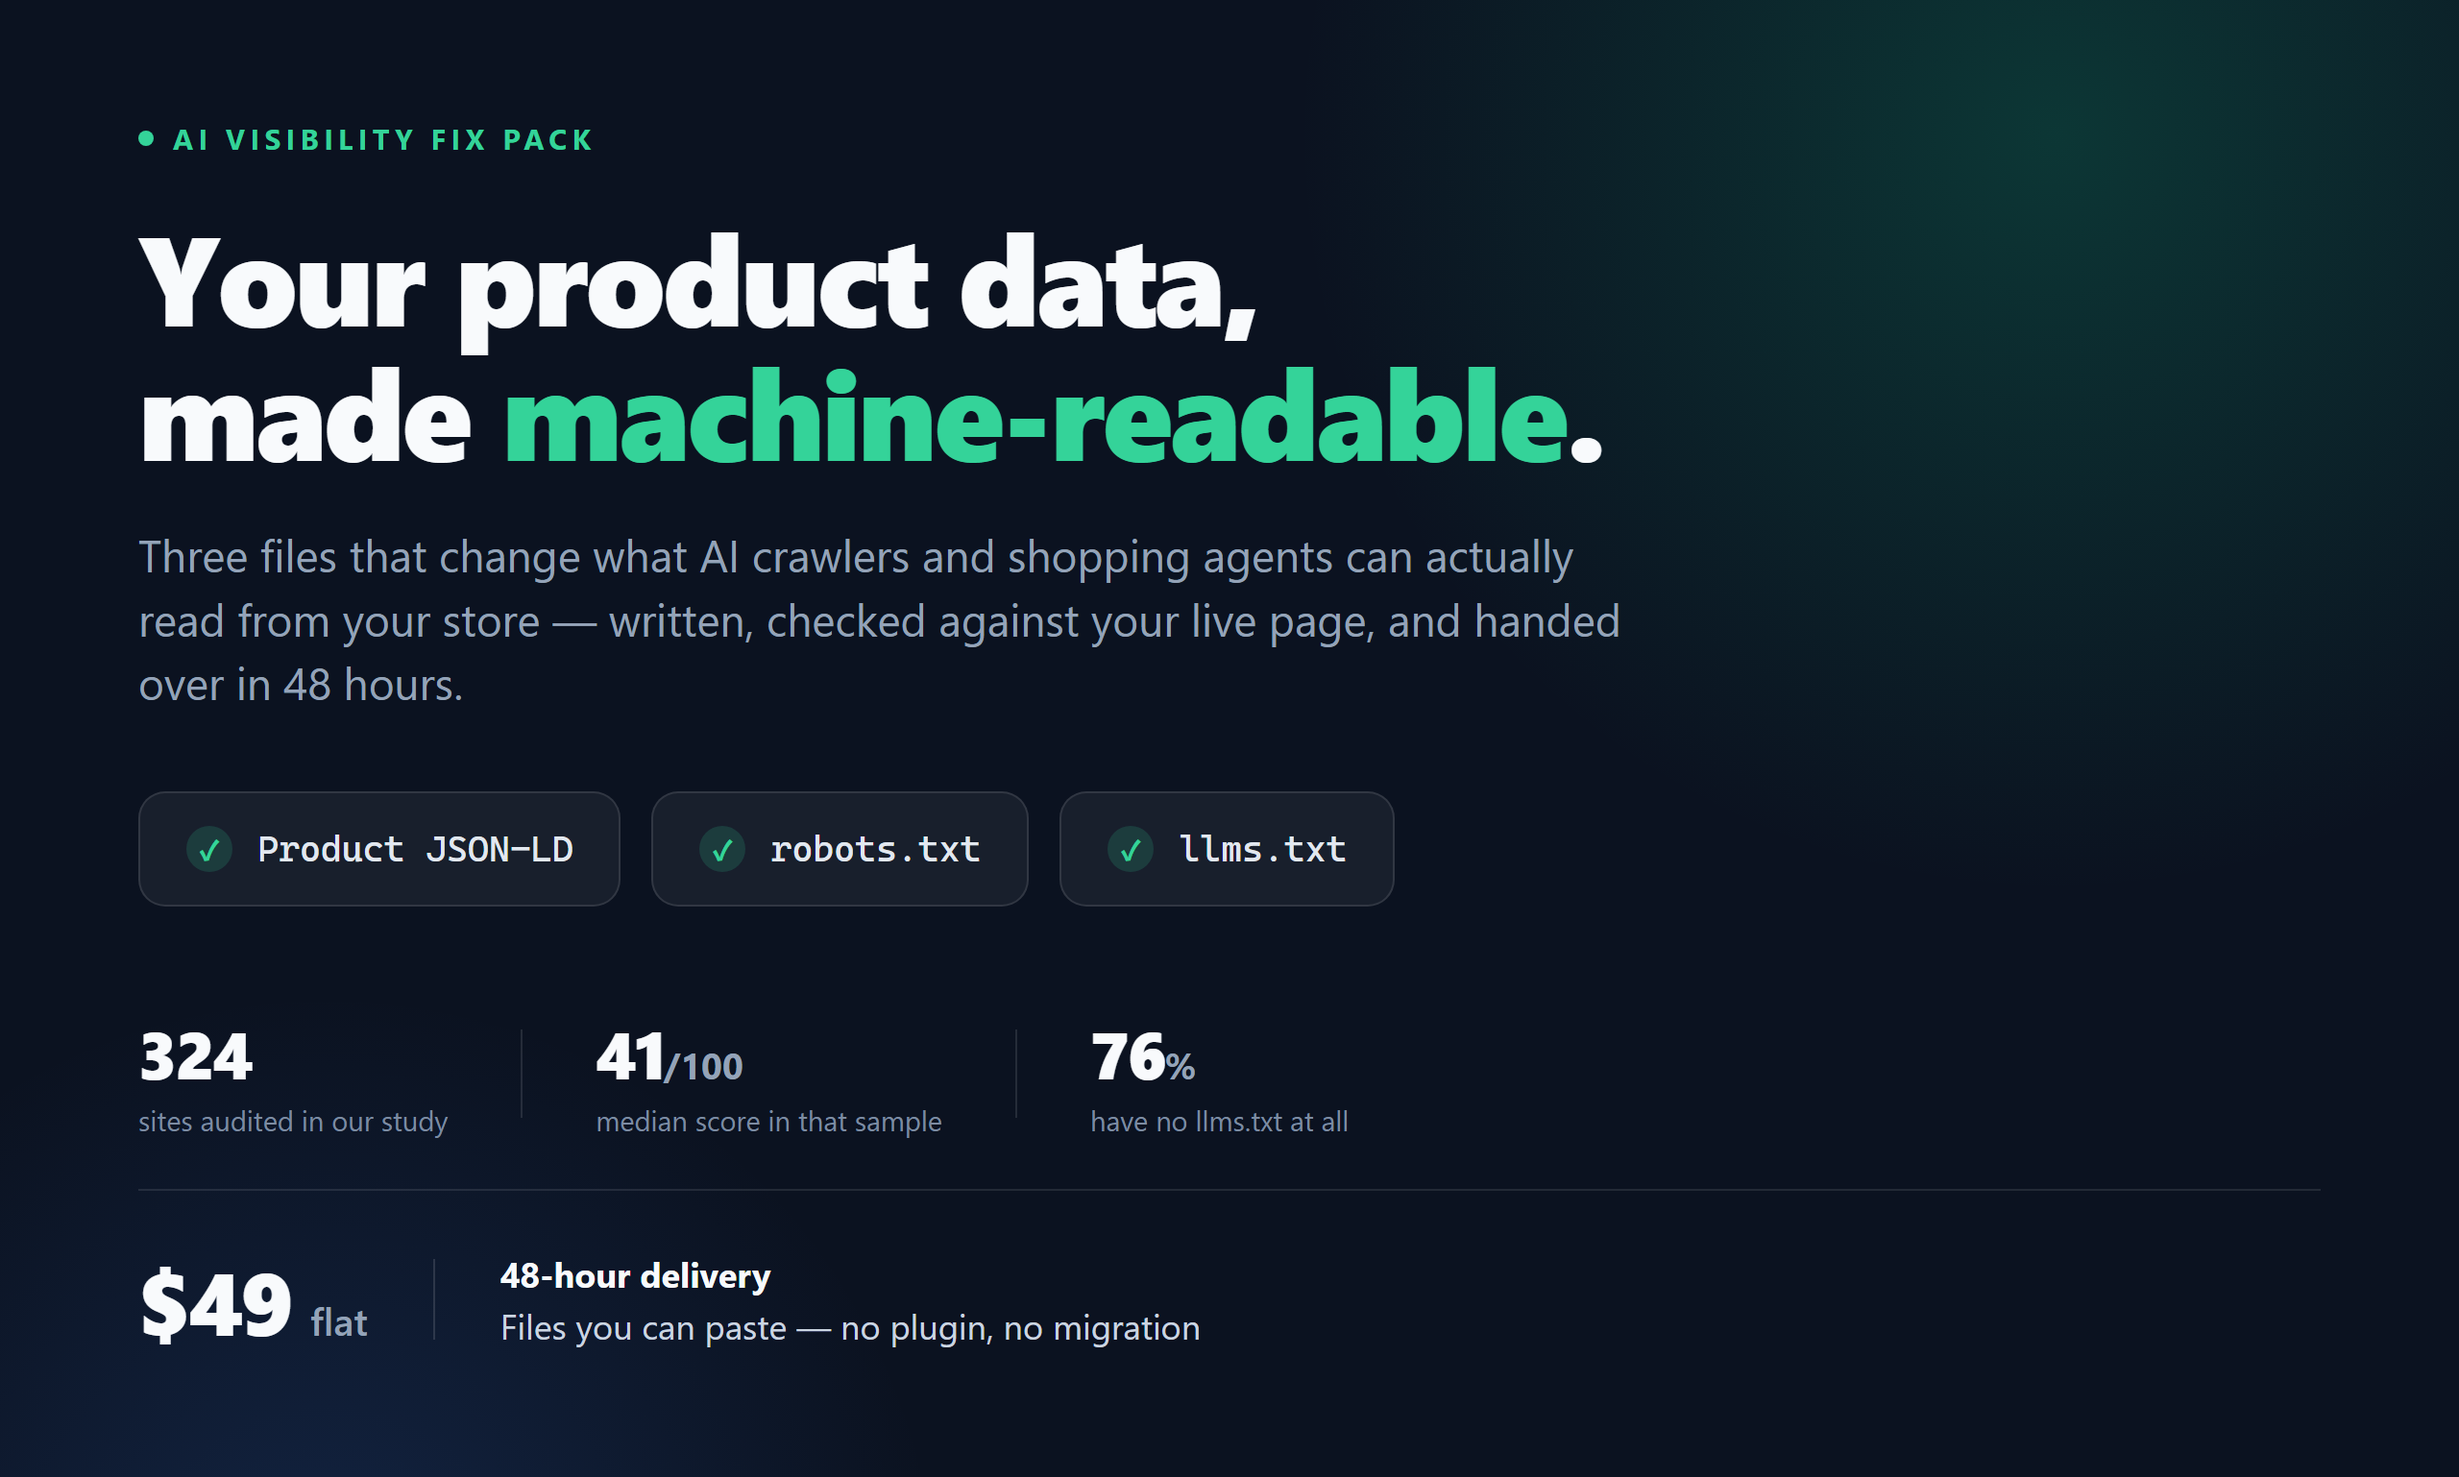
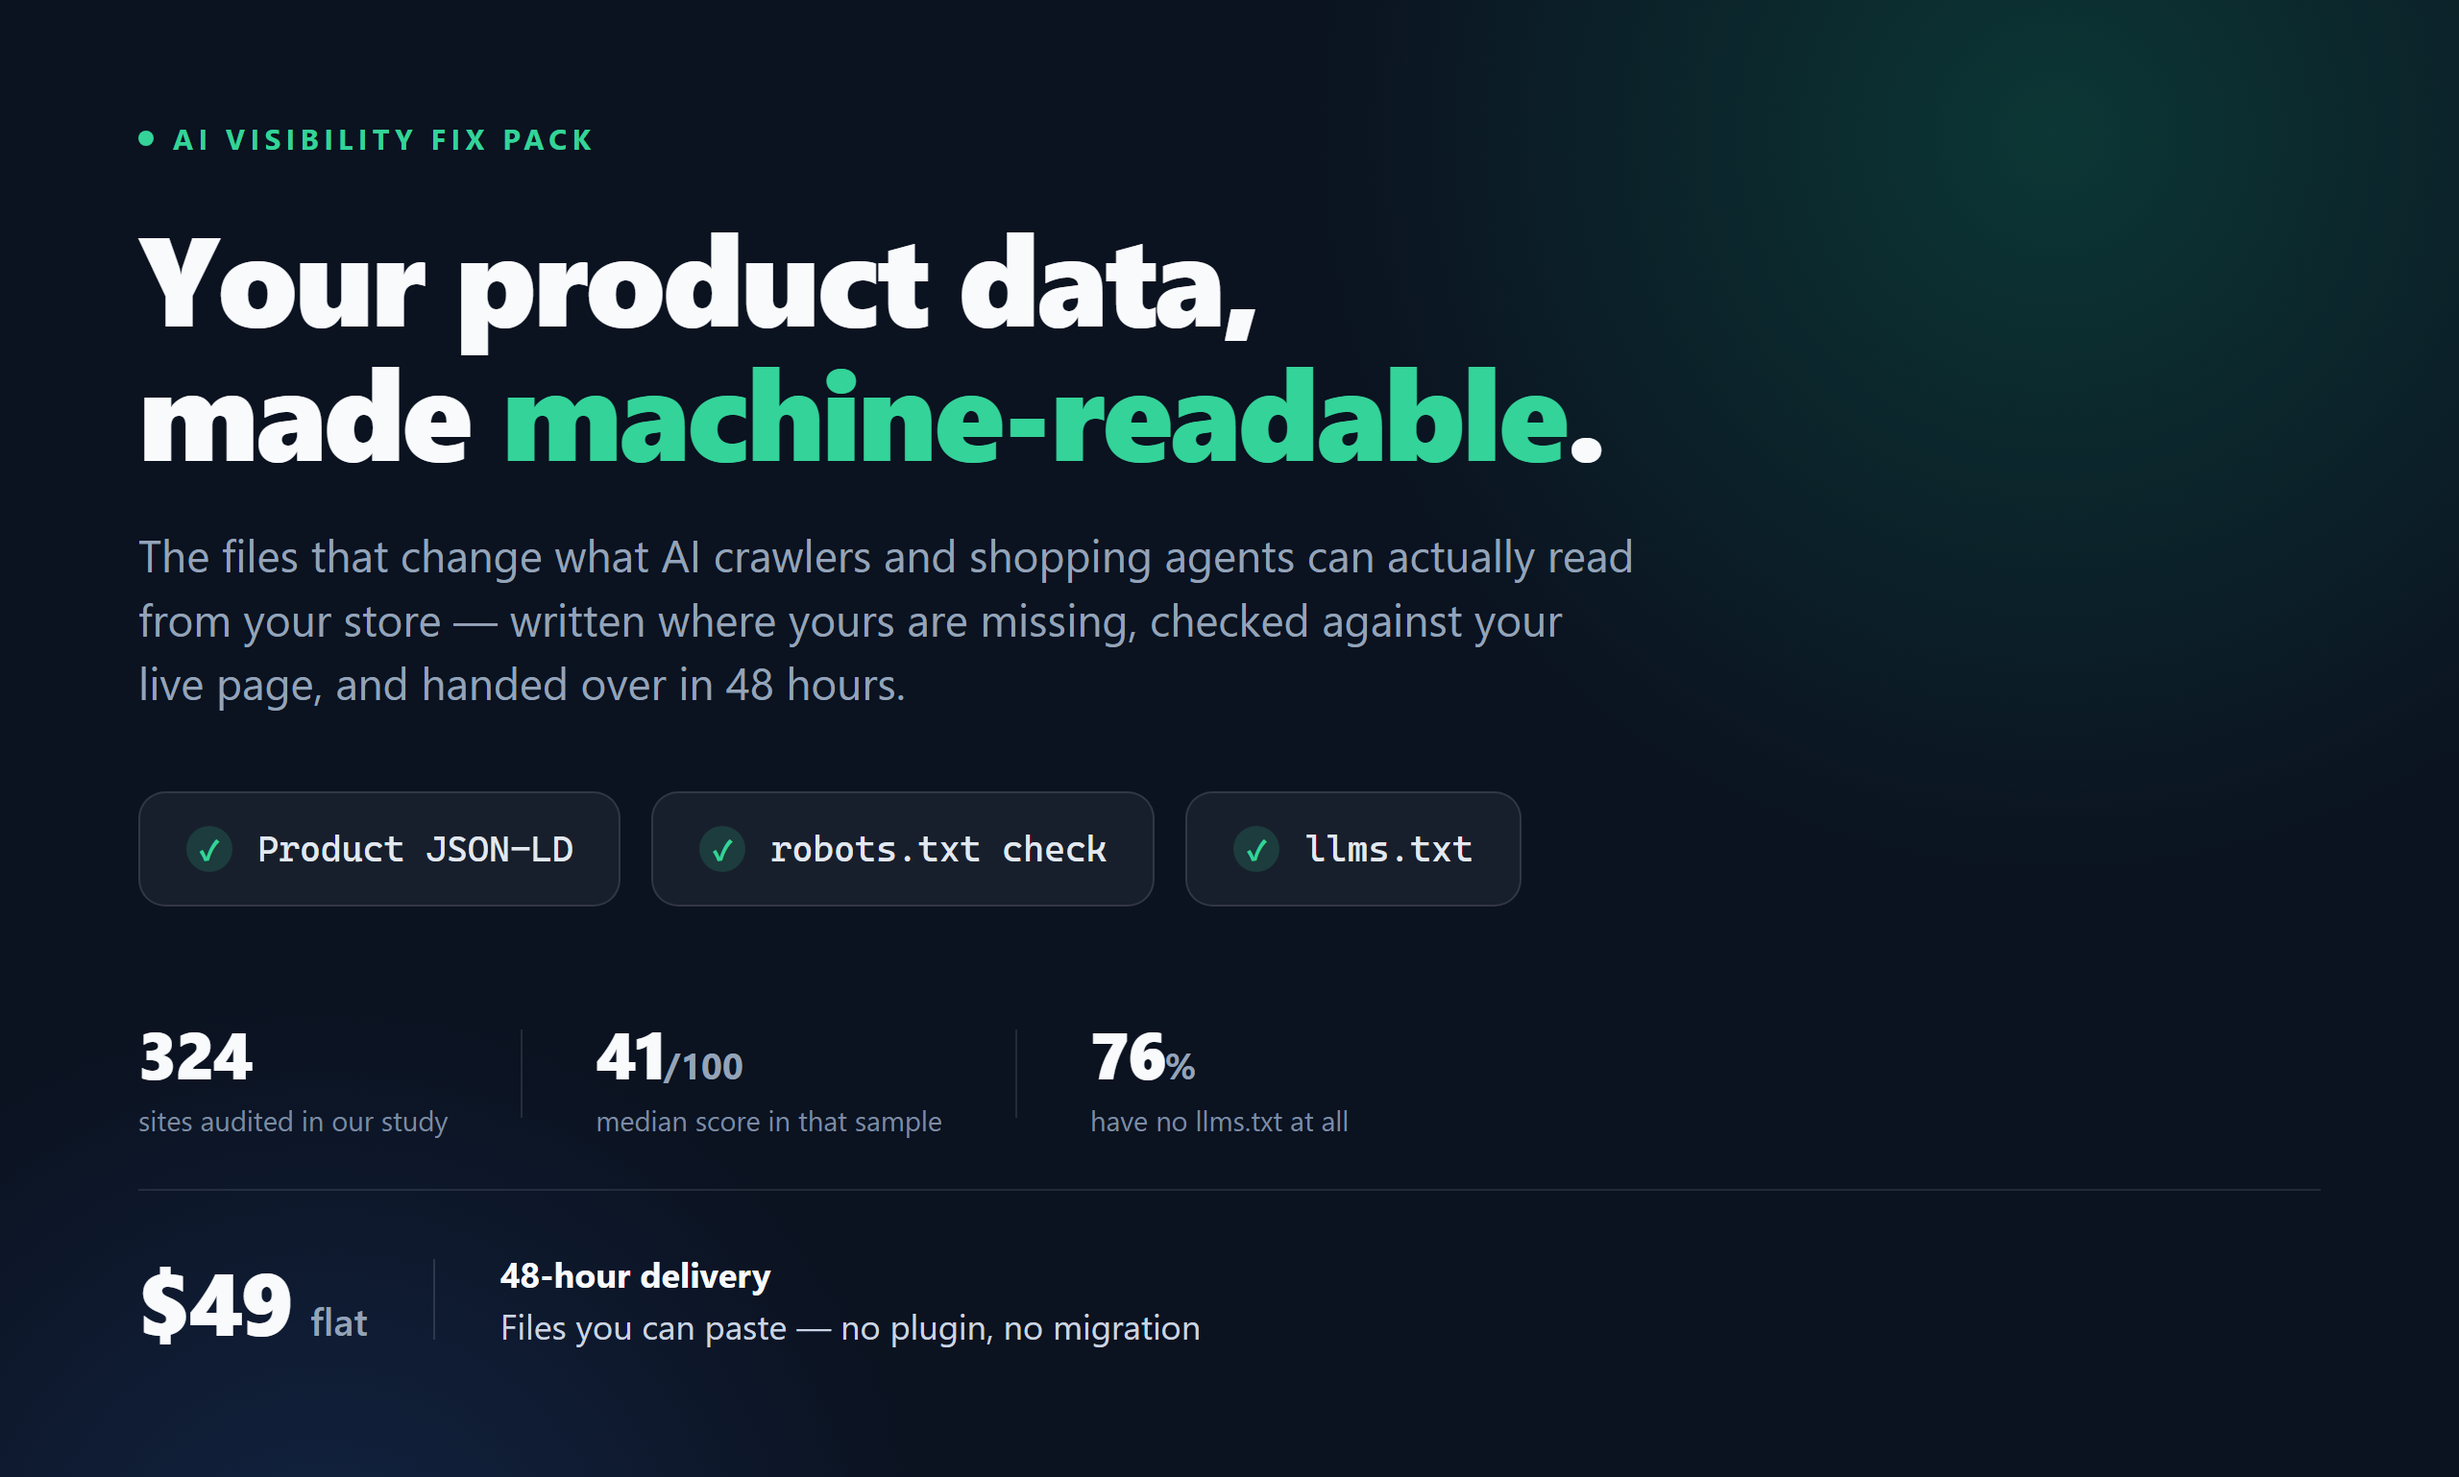
docs(gig): the copy promised three files the tool no longer writes
The pack stopped shipping a robots.txt (0dae961, 4eaeda2) and on all three
real Shopify stores we tested it ships llms.txt and nothing else — every one
already had a complete Product node and already allowed AI crawlers. The gig
copy still sold "three files", including one bullet promising "explicit
AI-crawler rules for robots.txt, merged without touching your existing rules".

- Description bullet 2 is now what the pack actually delivers: a written
  diagnosis of what your rules block on that page and the lines to delete,
  with the reason we do not rewrite the file. 1192/1200 characters.
- The long-form description and the three case studies no longer say "three
  files". The case studies are sites with no robots.txt at all, so they now
  say robots.txt needed nothing — which is true and is the stronger claim.
- Cover and deliverables images re-rendered at 2x: "Only what's missing",
  "robots.txt check" instead of a third file.

No claim in the outward copy now describes a file the tool will not produce.

Changed region(s): [[0.0625, 0.3433, 0.6562, 0.4993], [0.4062, 0.5618, 0.5938, 0.593]]

diff --git a/assets/gig/03-deliverables.html b/assets/gig/03-deliverables.html
@@ -71,7 +71,7 @@
   <div class="glow"></div>
   <div class="wrap">
     <div class="kicker">Deliverables</div>
-    <h1>Three files. <em>No plugin, no migration.</em></h1>
+    <h1>Only what's missing. <em>No plugin, no migration.</em></h1>
 
     <div class="cards">
       <div class="card">
@@ -85,10 +85,10 @@
 
       <div class="card">
         <div class="num">02</div>
-        <div class="fname">robots.txt</div>
+        <div class="fname">robots.txt — diagnosis</div>
         <div class="rule"></div>
         <div class="desc">
-          A mergeable snippet that stops blocking AI crawlers. <b>Your existing rules stay exactly as they are</b> — nothing is overwritten.
+          What your rules block on that page, and <b>the exact lines to delete</b>. I do not rewrite your file: any rewrite either repeats your block or overrides it.
         </div>
       </div>
 
@@ -113,7 +113,7 @@
       <div class="step">
         <div class="sn">STEP 2</div>
         <div class="st">I audit the live page</div>
-        <div class="sd">Then write the three files against what is actually there.</div>
+        <div class="sd">Then write the files your page is actually missing — and say so when it is none of them.</div>
       </div>
       <div class="step">
         <div class="sn">STEP 3</div>

diff --git a/assets/gig/01-cover.html b/assets/gig/01-cover.html
@@ -87,13 +87,14 @@
     <h1>Your product data,<br>made <em>machine-readable</em>.</h1>
 
     <p class="sub">
-      Three files that change what AI crawlers and shopping agents can actually read
-      from your store — written, checked against your live page, and handed over in 48 hours.
+      The files that change what AI crawlers and shopping agents can actually read
+      from your store — written where yours are missing, checked against your live page,
+      and handed over in 48 hours.
     </p>
 
     <div class="files">
       <div class="file"><span class="tick">✓</span><code>Product JSON-LD</code></div>
-      <div class="file"><span class="tick">✓</span><code>robots.txt</code></div>
+      <div class="file"><span class="tick">✓</span><code>robots.txt check</code></div>
       <div class="file"><span class="tick">✓</span><code>llms.txt</code></div>
     </div>
 

diff --git a/deliverables/FIVERR-GIG-PACK.md b/deliverables/FIVERR-GIG-PACK.md
@@ -24,7 +24,7 @@ I will complete and validate the product structured data on one of your products
 
 What you get:
 - Product JSON-LD for your best-seller, completed and validated — every variant's offer with price, currency and availability, plus sku / gtin / mpn to match your product to the same product elsewhere
-- Explicit AI-crawler rules for robots.txt (GPTBot, ClaudeBot, PerplexityBot), merged without touching your existing rules
+- A robots.txt diagnosis: which AI crawlers your rules block on that page, and the exact lines to delete - I do not rewrite your file
 - A hand-written llms.txt based on your public pages
 - A 1-page audit with your 11-dimension scores
 - A re-audit after you deploy, with before and after
@@ -84,7 +84,7 @@ I will fix your robots.txt for AI crawlers and complete Product schema
 
 <!-- 粘贴到：Fiverr > Gigs > [你的 gig] > Edit > Description -->
 ```
-I rebuild the three files that decide what AI crawlers can read on your store - from your real catalog, not a template.
+I check the three things that decide what AI crawlers can read on your store - robots rules, schema, and llms.txt - and I write only the ones your store is actually missing, from your real catalog, not a template.
 
 In 48 hours you get:
 - robots.txt rules that explicitly allow GPTBot, ClaudeBot and PerplexityBot, merged so your existing rules stay intact
@@ -209,19 +209,19 @@ A: Two revisions are included. The post-deploy re-audit is exactly where a bad p
 ```
 Case A - 41/100
 Measured: aiCrawlability 12/12 (full marks), aiGuidance 0/12, structuredData 0/14, discoveryEndpoints 0/6. No llms.txt. No robots.txt at all, so every crawler is allowed by default and no file names GPTBot, ClaudeBot or PerplexityBot.
-Changed: three files - robots.txt with explicit AI-crawler rules, llms.txt built from the sitemap, Product JSON-LD for one best-selling product.
+Changed: llms.txt written from the sitemap, and Product JSON-LD for one best-selling product. robots.txt needed nothing - with no robots.txt at all, every crawler is already allowed, and adding a permissive one would have changed no access. I said so instead of billing for it.
 Re-audit: we re-run the audit after you deploy and send the four dimension scores side by side, before and after, on your own domain.
 ```
 ```
 Case B - 44/100
 Measured: aiCrawlability 12/12 (full marks), aiGuidance 0/12, structuredData 0/14, discoveryEndpoints 0/6, eeat 3/8. Both files missing again - and the site still gets full crawl marks, because no robots.txt means nothing is blocked.
-Changed: three files - AI-crawler rules in robots.txt, llms.txt from the sitemap, Product JSON-LD completed with price, availability and identifiers.
+Changed: llms.txt written from the sitemap, and Product JSON-LD completed with price, availability and identifiers. robots.txt again needed nothing, and was left alone.
 Re-audit: same four dimensions re-measured after deployment, with the before/after pair returned to you.
 ```
 ```
 Case C - 56/100 (the better one)
 Measured: aiCrawlability 12/12, structuredData 3/14, aiGuidance 0/12, discoveryEndpoints 0/6. Two of the five schema checks passed; llms.txt and robots.txt both missing.
-Changed: three files - robots.txt rules, llms.txt from the sitemap, Product JSON-LD completed and validated.
+Changed: llms.txt written from the sitemap, and Product JSON-LD completed and validated. robots.txt: no change needed.
 Re-audit: aiGuidance, structuredData and discoveryEndpoints re-measured after you deploy.
 ```
 
@@ -248,7 +248,7 @@ Our first paying client becomes our first published before/after case study. Tha
 
 <!-- 粘贴到：Fiverr > Profile > Description -->
 ```
-I build GeoScore, an open-source GEO audit tool (MIT licensed, github.com/qq136692547-cmyk/geo-score). The scoring logic is public: 11 dimensions, 85 weighted checks. Run it on your store free at geoscore.help before you pay, then read the code behind the number. Our 324-site study: median score 41, and only 2.5% of sites blocked an AI crawler - the gap is almost never access, it is the files nobody wrote. I write those three files from your real catalog. $49, 48 hours. I will not promise AI citations; I will deliver correct files and show you the re-audit.
+I build GeoScore, an open-source GEO audit tool (MIT licensed, github.com/qq136692547-cmyk/geo-score). The scoring logic is public: 11 dimensions, 85 weighted checks. Run it on your store free at geoscore.help before you pay, then read the code behind the number. Our 324-site study: median score 41, and only 2.5% of sites blocked an AI crawler - the gap is almost never access, it is the files nobody wrote. I write the files your store is actually missing, from your real catalog. $49, 48 hours. I will not promise AI citations; I will deliver correct files and show you the re-audit.
 ```
 **实际字符数：563**（Fiverr 上限 600）
 
